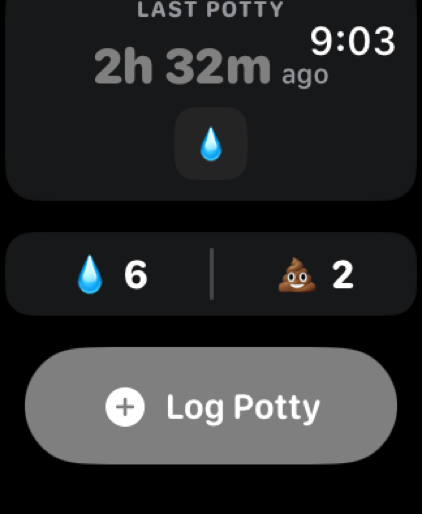
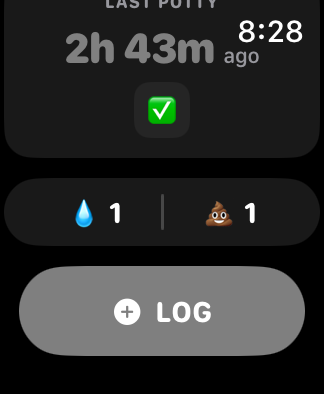
Update watch screenshots and add widgets section
- Update watch screenshots with new versions and bump cache-busting params
- Add watch-after-log thumbnail to watch section
- Add new Widgets section with medium and small widget screenshots
- Add all new images to lightbox gallery

diff --git a/src/index.js b/src/index.js
@@ -1023,6 +1023,95 @@ const landingHTML = `<!DOCTYPE html>
       display: block;
     }
 
+    /* Widgets */
+    .widgets {
+      padding: 5rem 2rem;
+      background: var(--surface);
+    }
+    .widgets-inner {
+      max-width: 1000px;
+      margin: 0 auto;
+      display: flex;
+      gap: 4rem;
+      align-items: center;
+    }
+    .widgets-text {
+      flex: 1;
+    }
+    .widgets-text h2 {
+      font-size: 2.2rem;
+      color: #fff;
+      margin-bottom: 1rem;
+      font-weight: 800;
+      letter-spacing: -0.5px;
+    }
+    .widgets-text > p {
+      font-size: 1.05rem;
+      color: var(--on-surface-variant);
+      line-height: 1.7;
+      margin-bottom: 1.5rem;
+    }
+    .widgets-callout {
+      display: flex;
+      align-items: center;
+      gap: 1rem;
+      padding: 1rem 1.25rem;
+      background: var(--surface-high);
+      border: 1px solid var(--outline-variant);
+      border-radius: 14px;
+    }
+    .widgets-callout-icon {
+      width: 44px;
+      height: 44px;
+      border-radius: 50%;
+      background: rgba(160,202,255,0.1);
+      display: flex;
+      align-items: center;
+      justify-content: center;
+      flex-shrink: 0;
+      font-size: 1.2rem;
+    }
+    .widgets-callout h4 {
+      font-size: 0.95rem;
+      color: #fff;
+      font-weight: 700;
+      margin-bottom: 0.1rem;
+    }
+    .widgets-callout p {
+      font-size: 0.85rem;
+      color: var(--on-surface-variant);
+    }
+    .widgets-gallery {
+      flex: 1;
+      display: flex;
+      gap: 1.5rem;
+      justify-content: center;
+      align-items: center;
+    }
+    .widget-frame {
+      border-radius: 24px;
+      border: 3px solid #2A2A2A;
+      overflow: hidden;
+      background: #000;
+      box-shadow: 0 16px 48px rgba(0,0,0,0.5);
+      cursor: pointer;
+      transition: transform 0.2s;
+    }
+    .widget-frame:hover {
+      transform: scale(1.04);
+    }
+    .widget-frame img {
+      width: 100%;
+      height: auto;
+      display: block;
+    }
+    .widget-medium {
+      width: 220px;
+    }
+    .widget-small {
+      width: 140px;
+    }
+
     /* Bento Features */
     .features {
       padding: 4.5rem 2rem;
@@ -1202,6 +1291,16 @@ const landingHTML = `<!DOCTYPE html>
         flex: 0 0 auto;
         scroll-snap-align: center;
       }
+      .widgets { padding: 3rem 1.25rem; }
+      .widgets-inner {
+        flex-direction: column;
+        gap: 2rem;
+        text-align: center;
+      }
+      .widgets-text h2 { font-size: 1.6rem; }
+      .widgets-gallery { gap: 1rem; }
+      .widget-medium { width: 180px; }
+      .widget-small { width: 110px; }
       .watch-companion { padding: 3rem 1.25rem; }
       .watch-inner {
         flex-direction: column;
@@ -1358,14 +1457,40 @@ const landingHTML = `<!DOCTYPE html>
         </div>
         <div style="position:relative; z-index:2;">
           <div class="watch-frame-hero" onclick="openLightbox(6)">
-            <img src="/screenshots/watch-dashboard.PNG?v=2" alt="PottyTime Watch Dashboard" loading="lazy">
+            <img src="/screenshots/watch-dashboard.PNG?v=3" alt="PottyTime Watch Dashboard" loading="lazy">
             <div class="watch-crown"></div>
           </div>
           <div class="watch-thumbnails">
-            <div class="watch-thumb" onclick="openLightbox(7)"><img src="/screenshots/watch-log-button.PNG" alt="Watch Log" loading="lazy"></div>
-            <div class="watch-thumb" onclick="openLightbox(8)"><img src="/screenshots/watch-quick-log.PNG?v=2" alt="Watch Quick Log" loading="lazy"></div>
-            <div class="watch-thumb" onclick="openLightbox(9)"><img src="/screenshots/watch-log-confirmation.PNG" alt="Watch Confirmation" loading="lazy"></div>
+            <div class="watch-thumb" onclick="openLightbox(7)"><img src="/screenshots/watch-log-button.PNG?v=2" alt="Watch Log" loading="lazy"></div>
+            <div class="watch-thumb" onclick="openLightbox(8)"><img src="/screenshots/watch-quick-log.PNG?v=3" alt="Watch Quick Log" loading="lazy"></div>
+            <div class="watch-thumb" onclick="openLightbox(9)"><img src="/screenshots/watch-log-confirmation.PNG?v=2" alt="Watch Confirmation" loading="lazy"></div>
+            <div class="watch-thumb" onclick="openLightbox(10)"><img src="/screenshots/watch-after-log.PNG" alt="Watch After Log" loading="lazy"></div>
           </div>
+        </div>
+      </div>
+    </div>
+  </section>
+
+  <!-- Widgets -->
+  <section class="widgets">
+    <div class="widgets-inner">
+      <div class="widgets-text">
+        <h2>Glanceable <span class="gradient-text">Widgets.</span></h2>
+        <p>Keep your pup's potty schedule front and center — right on your Home Screen.</p>
+        <div class="widgets-callout">
+          <div class="widgets-callout-icon">&#x1F4F2;</div>
+          <div>
+            <h4>At-a-Glance Info</h4>
+            <p>See last potty time and daily stats without opening the app.</p>
+          </div>
+        </div>
+      </div>
+      <div class="widgets-gallery">
+        <div class="widget-frame widget-medium" onclick="openLightbox(11)">
+          <img src="/screenshots/widget-medium.PNG" alt="PottyTime Medium Widget" loading="lazy">
+        </div>
+        <div class="widget-frame widget-small" onclick="openLightbox(12)">
+          <img src="/screenshots/widget-small.PNG" alt="PottyTime Small Widget" loading="lazy">
         </div>
       </div>
     </div>
@@ -1389,10 +1514,13 @@ const landingHTML = `<!DOCTYPE html>
       '/screenshots/insights.PNG?v=2',
       '/screenshots/settings-updated.PNG',
       '/screenshots/map2.PNG',
-      '/screenshots/watch-dashboard.PNG?v=2',
-      '/screenshots/watch-log-button.PNG',
-      '/screenshots/watch-quick-log.PNG?v=2',
-      '/screenshots/watch-log-confirmation.PNG'
+      '/screenshots/watch-dashboard.PNG?v=3',
+      '/screenshots/watch-log-button.PNG?v=2',
+      '/screenshots/watch-quick-log.PNG?v=3',
+      '/screenshots/watch-log-confirmation.PNG?v=2',
+      '/screenshots/watch-after-log.PNG',
+      '/screenshots/widget-medium.PNG',
+      '/screenshots/widget-small.PNG'
     ];
     let lbIndex = 0;
     function openLightbox(i) {
